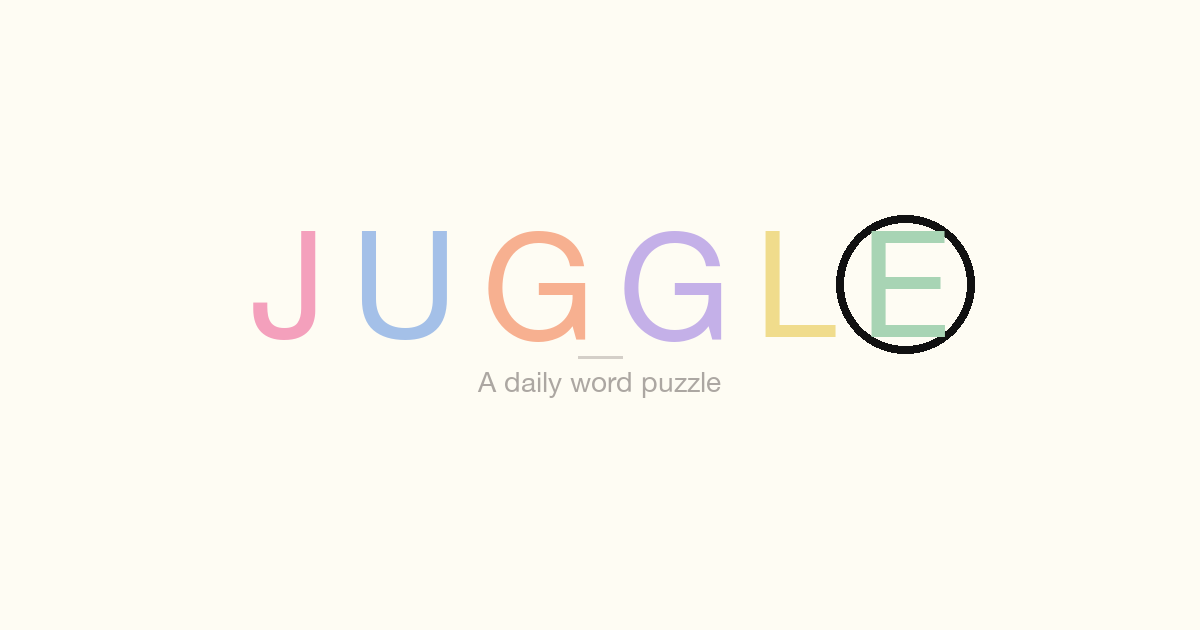
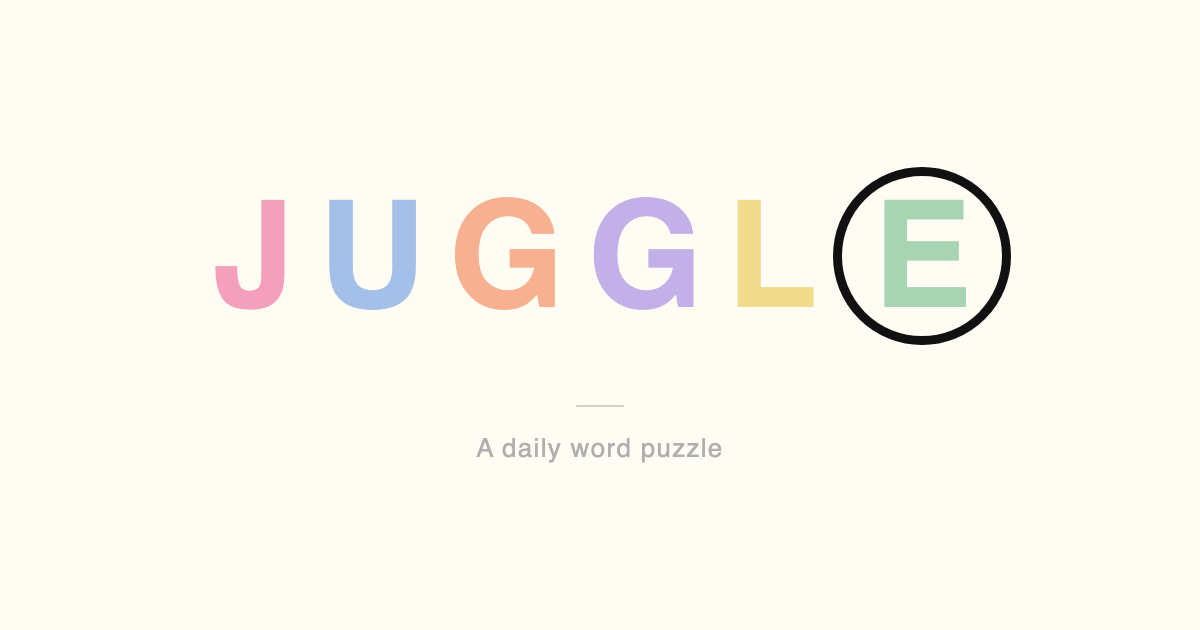
Revise imessage image

Changed region(s): [[0.1542, 0.2413, 0.8633, 0.573], [0.4008, 0.5429, 0.6167, 0.6333], [0.4008, 0.6937, 0.6167, 0.7238]]

diff --git a/og-image-source.html b/og-image-source.html
@@ -1,0 +1,73 @@
+<!DOCTYPE html>
+<html>
+<head>
+<meta charset="UTF-8">
+<link rel="preconnect" href="https://fonts.googleapis.com">
+<link rel="preconnect" href="https://fonts.gstatic.com" crossorigin>
+<link href="https://fonts.googleapis.com/css2?family=Figtree:wght@500;800&display=swap" rel="stylesheet">
+<style>
+* { margin: 0; padding: 0; box-sizing: border-box; }
+html, body {
+  width: 1200px;
+  height: 630px;
+  overflow: hidden;
+  background: #FEFCF3;
+  display: flex;
+  flex-direction: column;
+  align-items: center;
+  justify-content: center;
+}
+
+.logo {
+  font-family: 'Figtree', sans-serif;
+  font-size: 148px;
+  font-weight: 800;
+  letter-spacing: 0.16em;
+  text-transform: uppercase;
+  display: inline-flex;
+  align-items: center;
+  line-height: 1;
+  /* Cancel trailing letter-spacing so flex centering is accurate */
+  margin-right: -0.16em;
+}
+
+.logo-circle {
+  display: inline-flex;
+  align-items: center;
+  justify-content: center;
+  width: 1.2em;
+  height: 1.2em;
+  border: 9px solid #111;
+  border-radius: 50%;
+  flex-shrink: 0;
+  line-height: 1;
+  letter-spacing: 0;
+  margin-left: -0.05em;
+}
+
+.divider {
+  width: 48px;
+  height: 2.5px;
+  background: #D4CFC7;
+  border-radius: 2px;
+  margin-top: 60px;
+  margin-bottom: 26px;
+}
+
+.tagline {
+  font-family: 'Figtree', sans-serif;
+  font-size: 26px;
+  font-weight: 500;
+  color: #AFAFAF;
+  letter-spacing: 0.05em;
+}
+</style>
+</head>
+<body>
+  <div class="logo">
+    <span style="color:#F4A0BC">J</span><span style="color:#A4C0E8">U</span><span style="color:#F7B090">G</span><span style="color:#C4B0E8">G</span><span style="color:#F0DC8C">L</span><span class="logo-circle" style="color:#A8D4B4">E</span>
+  </div>
+  <div class="divider"></div>
+  <div class="tagline">A daily word puzzle</div>
+</body>
+</html>
